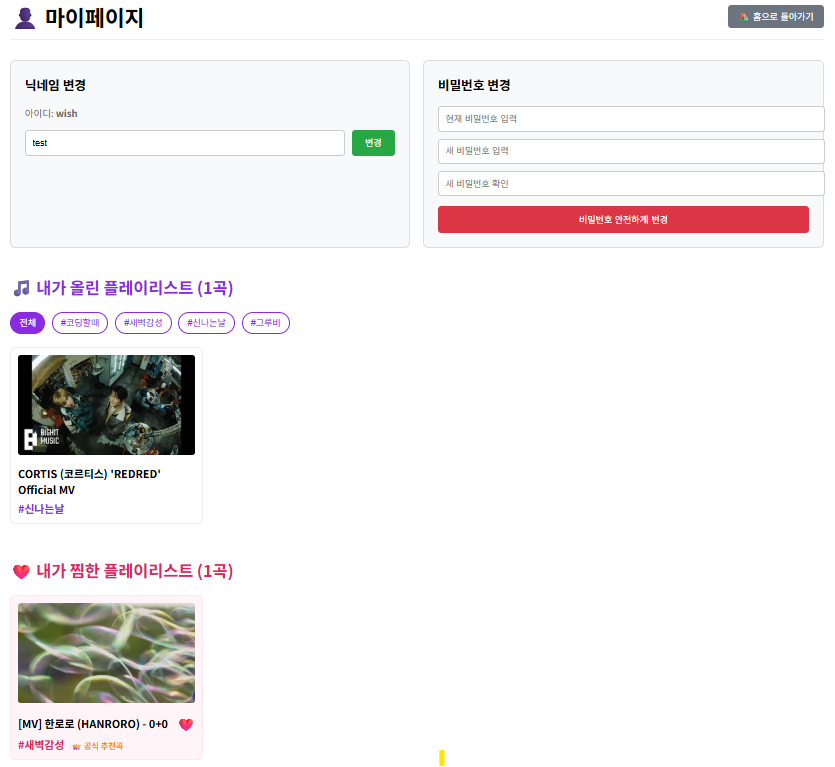
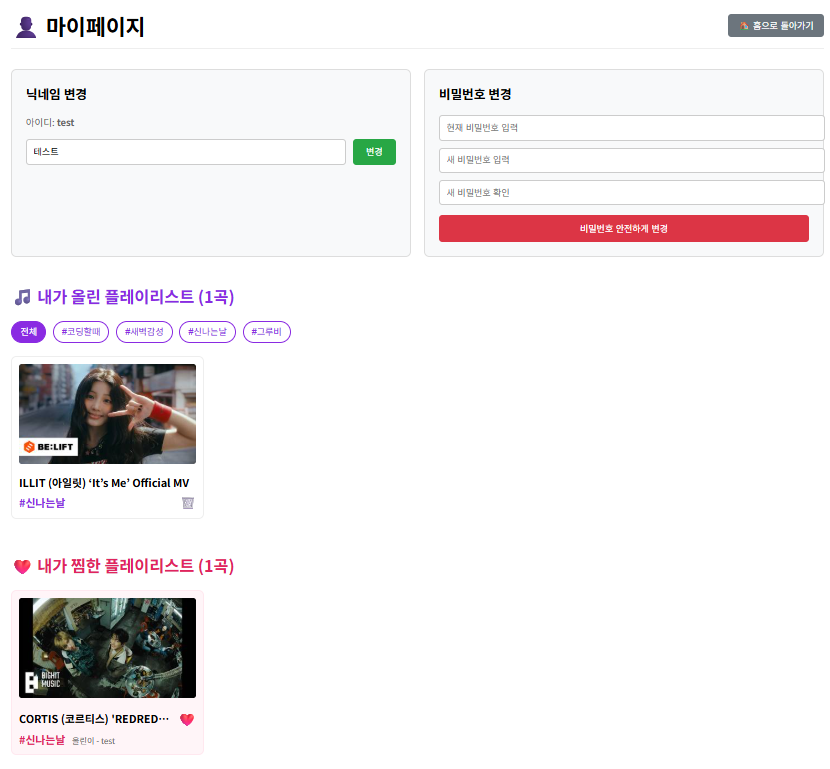
이미지 파일 수정 및 플레이리스트 삭제 기능 내용 추가

diff --git a/Analysis_[22212010_김령하].md b/Analysis_[22212010_김령하].md
@@ -580,10 +580,12 @@ M3는 이용자가 직접 유튜브 링크와 감성 태그를 등록하고, 태
 | 2 | 시스템이 loginid의 music list를 호출하여 해당 이용자의 음악 목록을 조회한다. |
 | 3 | '내가 올린 플레이리스트' 영역에 목록을 렌더링한다. |
 | 4 | 태그 필터 버튼 클릭 시 해당 태그에 맞게 필터링하여 표시한다. |
+| 5 |삭제 버튼을 클릭하면 확인 모달창이 나타나며, 확정 시 해당 곡이 삭제되고 목록이 즉시 갱신된다. |
 | **EXTENSION SCENARIOS** | |
 | **Step** | **Branching Action** |
 | 2 | 2a. 등록한 곡이 없는 경우 → 빈 목록 표시 (0곡). |
 | 4 | 4a. 선택한 태그에 해당하는 곡이 없는 경우 → '해당 태그에 등록한 내 음악이 없습니다.' 출력. |
+| 5 | 5a. 삭제 확인 모달에서 '취소'를 누르면 모달이 닫히고 화면이 유지된다. |
 | **RELATED INFORMATION** | |
 | Performance | ≦ 3 Seconds |
 | Frequency | Variable |
@@ -898,7 +900,7 @@ M3에 접속하면 가장 먼저 나타나는 화면이다.<br> 아이디와 비
 ### 4.4. MyPage 화면
 ![MyPage](./src/images/mypage.png)
 
-이용자가 개인정보를 관리하고 자신의 플레이리스트를 모아볼 수 있는 화면이다.<br>닉네임 변경 폼과 비밀번호 변경 폼이 나란히 표시된다. <br>하단에는 내가 올린 플레이리스트와 내가 찜한 플레이리스트가 각각 그리드로 표시된다. <br>찜한 목록에서는 하트를 클릭하여 즉시 취소할 수 있다. <br>관리자가 올린 공식 추천곡은 '공식 추천곡' 배지로, 일반 이용자 곡은 '올린이 - 닉네임' 형식으로 표시된다.
+이용자가 개인정보를 관리하고 자신의 플레이리스트를 모아볼 수 있는 화면이다.<br>닉네임 변경 폼과 비밀번호 변경 폼이 나란히 표시된다. <br>하단에는 내가 올린 플레이리스트와 내가 찜한 플레이리스트가 각각 그리드로 표시된다. <br>자신이 등록한 곡을 삭제할 수 있다. <br>찜한 목록에서는 하트를 클릭하여 즉시 취소할 수 있다. <br>관리자가 올린 공식 추천곡은 '공식 추천곡' 배지로, 일반 이용자 곡은 '올린이 - 닉네임' 형식으로 표시된다.
 
 
 ### 4.5. Admin Stats 화면
